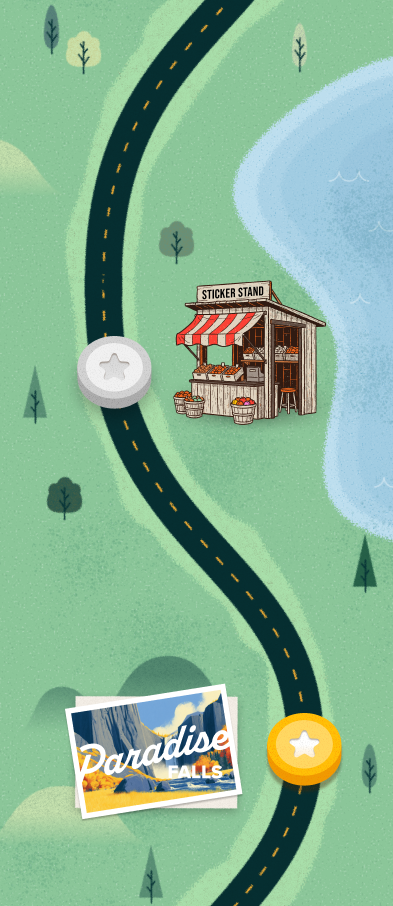
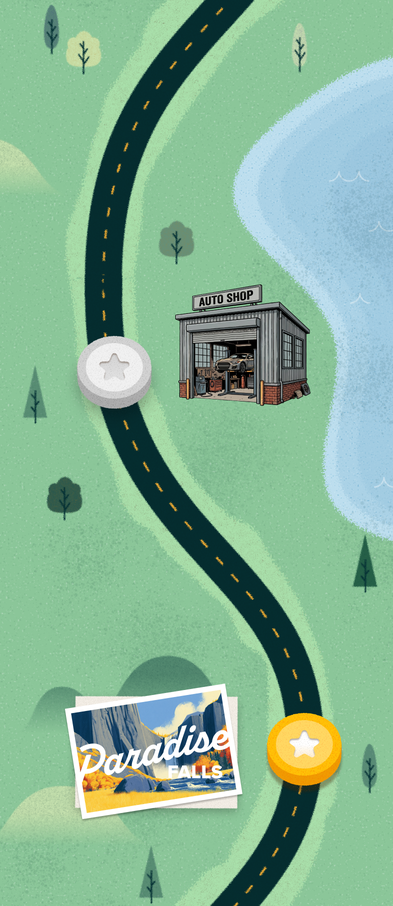
Swap the map sticker stand for the Auto Shop.
Replace map art with the Figma export that shows the Auto Shop
building, and retarget the stand hit area over that building.

diff --git a/sticker-prototype/src/App.css b/sticker-prototype/src/App.css
@@ -460,14 +460,14 @@
   -webkit-user-drag: none;
   image-rendering: auto;
 }
-/* Hit target over the Sticker Stand / awning near MAP_VAN_PATH end (~119, 340). */
+/* Hit target over the Auto Shop near MAP_VAN_PATH end (~119, 340). */
 .map-stand-hit {
   position: absolute;
   z-index: 4;
-  left: 78px;
-  top: 268px;
-  width: 130px;
-  height: 120px;
+  left: 168px;
+  top: 300px;
+  width: 150px;
+  height: 140px;
   margin: 0;
   padding: 0;
   border: 0;

diff --git a/sticker-prototype/src/App.tsx b/sticker-prototype/src/App.tsx
@@ -92,7 +92,7 @@ function stickerPositionToDriveOffPercent(position: StickerPosition) {
   }
 }
 
-/** Phone-space waypoints along the road from the yellow star to the grey stand star. */
+/** Phone-space waypoints along the road from the yellow star to the Auto Shop grey star. */
 const MAP_VAN_PATH = [
   { x: 302, y: 695 },
   { x: 298, y: 636 },
